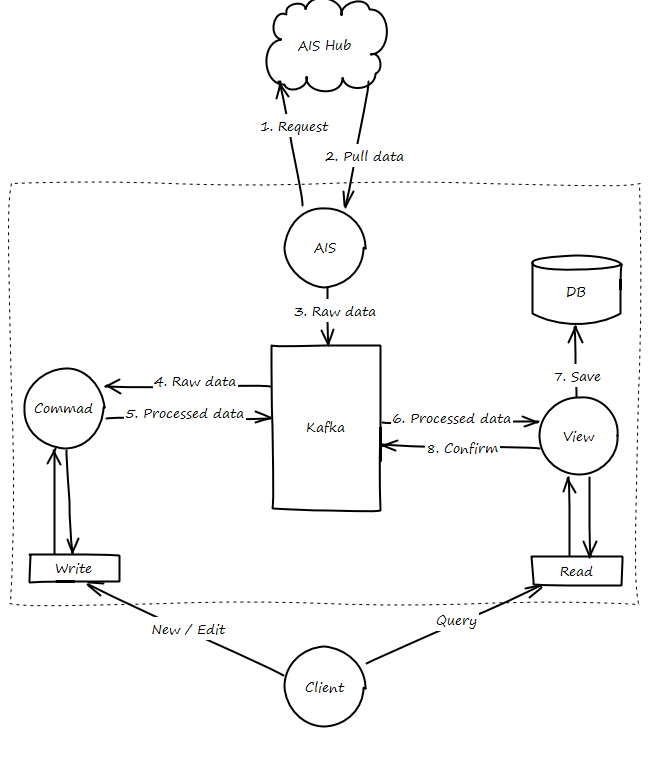
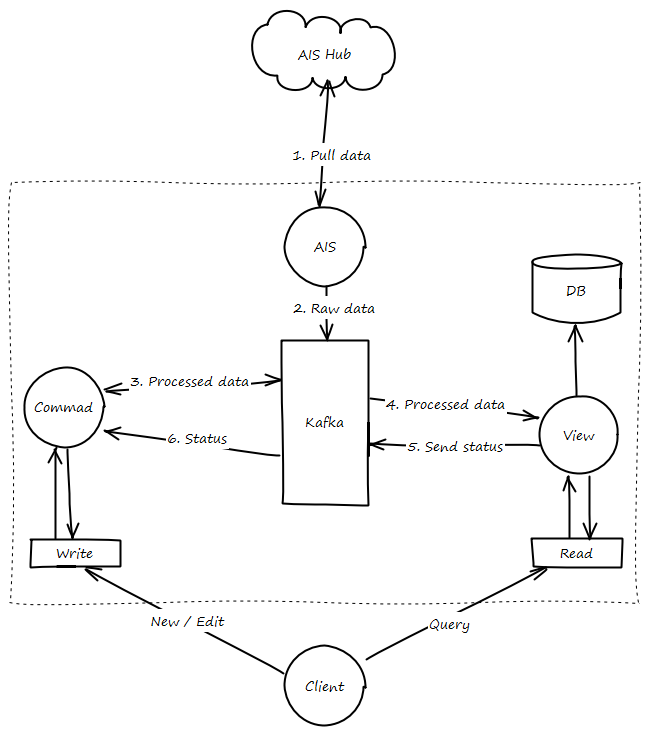
Añade más info sobre vessels

diff --git a/mkdocs/docs/servicios/vessels-command.md b/mkdocs/docs/servicios/vessels-command.md
@@ -1,15 +1,17 @@
-# Vessels
+# Buques
+
+![vessel](images/cargo-ship.jpg){: .shadow}
+
 Tracking de buques para ello, se utilizan los datos AIS, es un transmisor que debe de enviar la posición de los buques en tiempo real. Existe un servicio llamada AISHub el cual provee datos de buques de todo el mundo.
 
-## Flujo
+## Flujo de datos
 
-1. El servicio AIS, realiza una petición a AIS Hub para descargar los datos del último minuto. Se ha optado por descargar los datos en formato CSV, ya que pesan menos.
-2. Una vez descargados, se descomprimen y se inyectan a un topic de Kafka.
-3. El microservicio de vessel, escucha el topic de los datos brutos.
-4. *Command* procesa el dato, comprobando que el buque esté añadido, en caso contrario lo añade, enriqueciéndolo y por último enviándolo de al topic de guardar.
-5. *View* escucha el topic de guardar, guarda el dato en la base de datos.
-6. Si el dato se ha guardado correctamente, se envía una confirmación al *Command*.
-7. El *Command* recibe la confirmación de guardado correctamente.
+1. El servicio AIS, realiza una petición a [AIS Hub](http://www.aishub.net/){: target="_blank"} para descargar los datos del último minuto. Se ha optado por descargar los datos en formato CSV, ya que pesan menos.
+2. Una vez descargados, se descomprimen y se inyectan al canal de datos brutos de buques de Kafka.
+3. El microservicio *command* de vessel, escucha este canal de datos brutos, los procesa, comprueba que el buque esté añadido, en caso contrario lo añade, lo enriquece y por último lo envía al canal de guardar buques de Kafka.
+4. *View* escucha el canal de guardar buques, almacena el dato en la base de datos.
+5. Si el dato se ha guardado correctamente o no, se envía el estado en que acabo la operación, a través de Kafka.
+6. *Command* recibe el estado de la operación de guardado, si ha habido algún problema se realizan acciones de compensación y alerta del error. En caso de éxito, el dato ya estaría guardado y listo para ser consultado.
 
 
 ![AIS](images/AIS.png){: .center}
